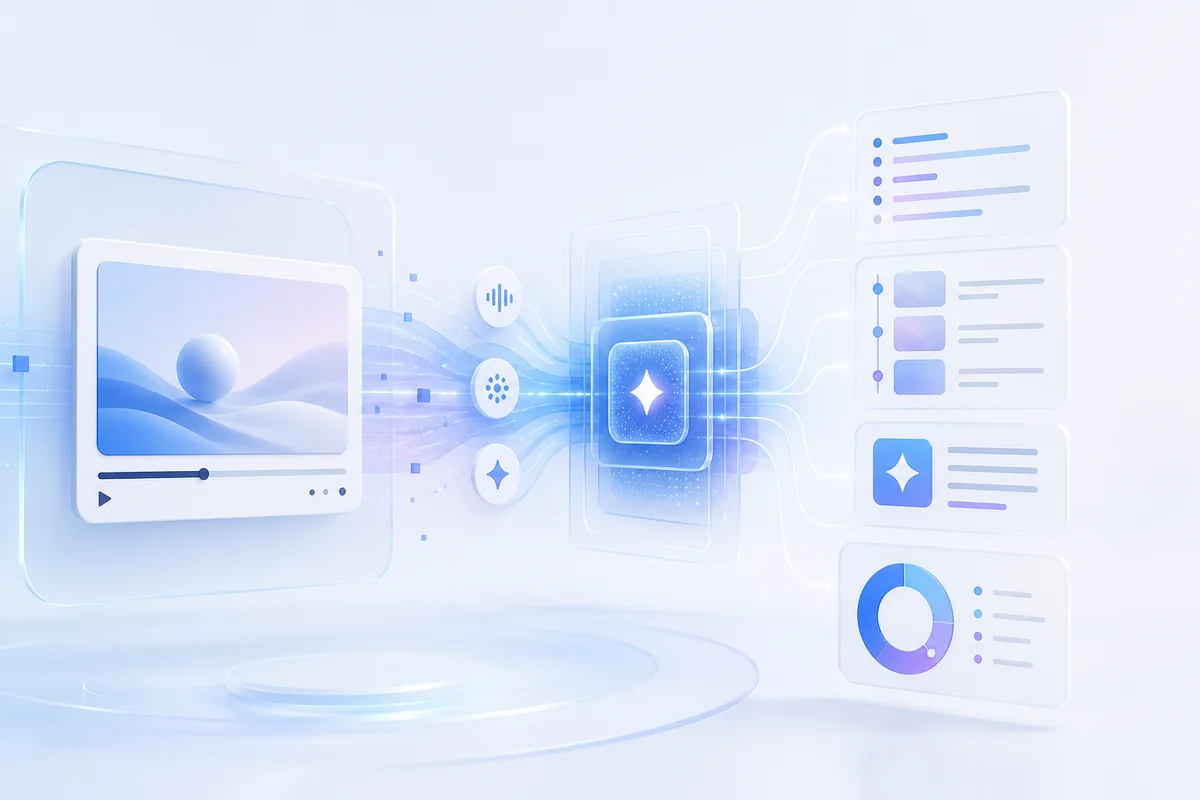
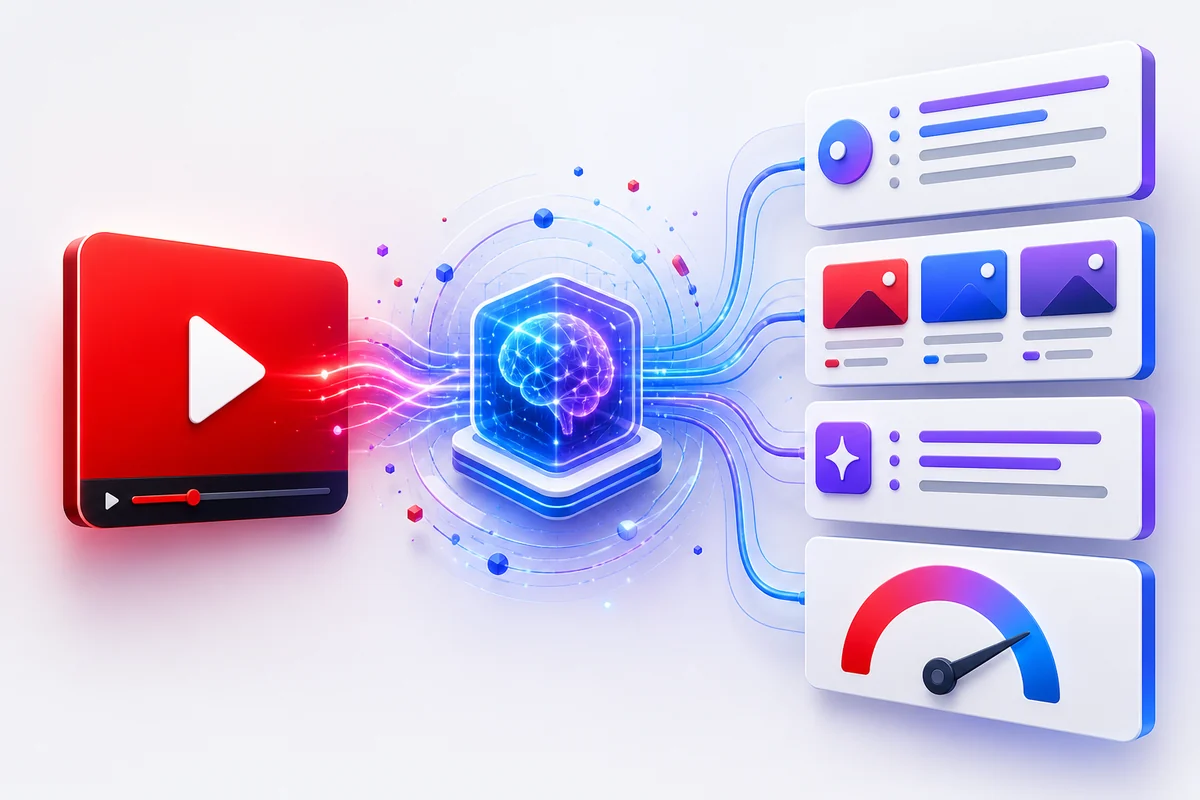
feat: refresh hero and simplify header scroll

diff --git a/styles.css b/styles.css
@@ -83,16 +83,9 @@ a {
 }
 
 .site-header {
-  position: sticky;
-  z-index: 60;
-  top: 0;
   width: 100%;
   background: rgba(245, 248, 252, 0.86);
   border-bottom: 1px solid rgba(19, 34, 56, 0.08);
-  backdrop-filter: blur(18px) saturate(150%);
-  transition:
-    background 180ms ease,
-    box-shadow 180ms ease;
 }
 
 .site-header-inner {
@@ -101,22 +94,12 @@ a {
   align-items: center;
   justify-content: space-between;
   min-height: 88px;
-  transition: min-height 180ms ease;
-}
-
-.site-header.is-compact {
-  background: rgba(255, 255, 255, 0.93);
-  box-shadow: 0 10px 30px rgba(20, 45, 78, 0.1);
-}
-
-.site-header.is-compact .site-header-inner {
-  min-height: 66px;
 }
 
 #analyzer,
 #result,
 #historySection {
-  scroll-margin-top: 90px;
+  scroll-margin-top: 24px;
 }
 
 .brand {
@@ -144,18 +127,6 @@ a {
   font-size: 0.78rem;
   letter-spacing: 0.04em;
   box-shadow: 0 10px 24px rgba(23, 105, 224, 0.24);
-  transition:
-    width 180ms ease,
-    height 180ms ease,
-    border-radius 180ms ease,
-    box-shadow 180ms ease;
-}
-
-.site-header.is-compact .brand-mark {
-  width: 36px;
-  height: 36px;
-  border-radius: 11px;
-  box-shadow: 0 7px 18px rgba(23, 105, 224, 0.2);
 }
 
 .course-label {
@@ -165,14 +136,6 @@ a {
   font-weight: 650;
   letter-spacing: 0.08em;
   text-transform: uppercase;
-  transition:
-    color 180ms ease,
-    opacity 180ms ease;
-}
-
-.site-header.is-compact .course-label {
-  color: #76879b;
-  opacity: 0.82;
 }
 
 .language-switcher {
@@ -2117,10 +2080,6 @@ a:focus-visible {
   .site-header-inner {
     gap: 12px;
     min-height: 72px;
-  }
-
-  .site-header.is-compact .site-header-inner {
-    min-height: 62px;
   }
 
   .brand > span:last-child,

diff --git a/app-v21.js b/app-v21.js
@@ -35,7 +35,6 @@ const elements = {
   historySection: $("#historySection"), historySearch: $("#historySearch"),
   favoritesOnly: $("#favoritesOnly"), historyStatus: $("#historyStatus"),
   historyList: $("#historyList"), historyEmpty: $("#historyEmpty"), demo: $("#demoButton"),
-  siteHeader: $("#siteHeader"),
   deleteAccount: $("#deleteAccountButton"), deleteAccountDialog: $("#deleteAccountDialog"),
   deleteAccountForm: $("#deleteAccountForm"), deleteAccountPassword: $("#deleteAccountPassword"),
   deleteAccountError: $("#deleteAccountError"), cancelDeleteAccount: $("#cancelDeleteAccount"),
@@ -831,14 +830,6 @@ function closeExportMenu({ returnFocus = false } = {}) {
   if (returnFocus) elements.exportMenu.querySelector("summary")?.focus();
 }
 
-let headerAnimationFrame = 0;
-function updateStickyHeader() {
-  cancelAnimationFrame(headerAnimationFrame);
-  headerAnimationFrame = requestAnimationFrame(() => {
-    elements.siteHeader.classList.toggle("is-compact", window.scrollY > 18);
-  });
-}
-
 elements.form.addEventListener("submit", (event) => {
   event.preventDefault();
   const value = elements.url.value.trim();
@@ -894,9 +885,7 @@ elements.demo.addEventListener("click", showDemo);
 elements.deleteAccount.addEventListener("click", () => { elements.deleteAccountDialog.showModal(); renderDeleteTurnstile(); });
 elements.cancelDeleteAccount.addEventListener("click", () => { elements.deleteAccountDialog.close(); resetDeleteCaptcha(); });
 elements.deleteAccountForm.addEventListener("submit", deleteAccount);
-window.addEventListener("scroll", updateStickyHeader, { passive: true });
 
 translatePage(state.language);
-updateStickyHeader();
 loadConfig();
 loadSession();

diff --git a/README.md b/README.md
@@ -21,7 +21,7 @@
 - вкладки «Анализ», «Транскрипт», «Главы», поиск по транскрипту и безопасные тайм-коды;
 - демонстрационный результат без регистрации;
 - экспорт в TXT, Markdown и PDF с поддержкой RU/EN/LV;
-- раскрытые по умолчанию разделы анализа, компактная закреплённая шапка и адаптивная AI-иллюстрация;
+- раскрытые по умолчанию разделы анализа, обычная прокручиваемая шапка и адаптивная выразительная AI-иллюстрация;
 - серверная совместимость с ранее созданными публичными ссылками без пункта создания ссылки в интерфейсе;
 - Cloudflare Turnstile, проверка Origin, ограничения запросов в Supabase и безопасные журналы;
 - показ пароля, удаление аккаунта после повторной проверки пароля;
